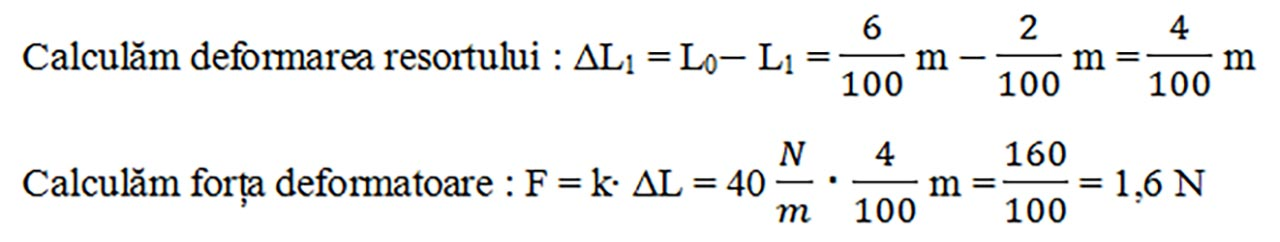
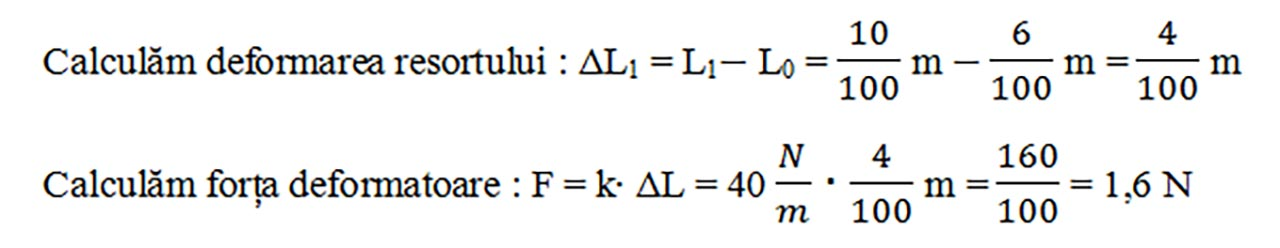
Clasa6-Cap3-CorectieProblemaModel11

diff --git a/docs/fizica/clasa6/fizica-clasa6-capitolul3.md b/docs/fizica/clasa6/fizica-clasa6-capitolul3.md
@@ -2373,7 +2373,7 @@ Legea deformării elastice ne arată că forța deformatoare (F) este egală în
 
 :::caution Problemă model
 
-11) Un resort are lungimea inițială de 6cm și când este deformat are 2 cm. Știind  că resortul are 40 N /m, determină:
+11) Un resort are lungimea inițială de 6cm și când este deformat are 10 cm. Știind  că resortul are 40 N /m, determină:
 a)	Forța deformatoare.
 
 b)	Forța elastică.
@@ -2398,19 +2398,19 @@ a) Scriem legea deformării elastice : |F| = |F<sub>e</sub> | = k ∙ ΔL
 <Img src="fizica/clasa6/capitolul3/3_3_3_3_Poza7_RezolvarePunctulAProblemaModel11.jpg" />
 
 
-b) Forța elastică ( Fe) este egală în modul cu forța deformatoare ( F).
+b) Forța elastică (Fe) este egală în modul cu forța deformatoare (F).
 
 |F<sub>e</sub>| = |F| = 1,6 N.
 
 
-c)	Resortul este comprimat, deoarece lungimea lui scade când este deformat.
+c)	Resortul este alungit, deoarece lungimea lui creşte când este deformat.
 
-d)	Forța deformatoare (F) o desenăm un segment cu săgeată orientat spre resort (stânga), deoarece ea comprimă (strânge) resortul.
+d)	Forța deformatoare (F) o desenăm un segment cu săgeată orientat spre dreapta, deoarece ea alungeşte resortul.
 
-Forța elastică (F<sub>e</sub>) o desenăm un segment cu săgeată orientat în sens opus forței deformatoare (spre dreapta), deoarece ea readuce la forma inițială resortul.
+Forța elastică (F<sub>e</sub>) o desenăm un segment cu săgeată orientat în sens opus forței deformatoare (spre stânga), deoarece ea readuce la forma inițială resortul.
 
 
-<Img src="fizica/clasa6/capitolul3/3_3_3_3_Poza100_FortaDeformatoareSiFortaElastica.jpg" />
+<Img src="fizica/clasa6/capitolul3/3_3_3_3_Poza8_fortaDeformatoareSiFortaElastica.jpg" />
 
 :::
 
